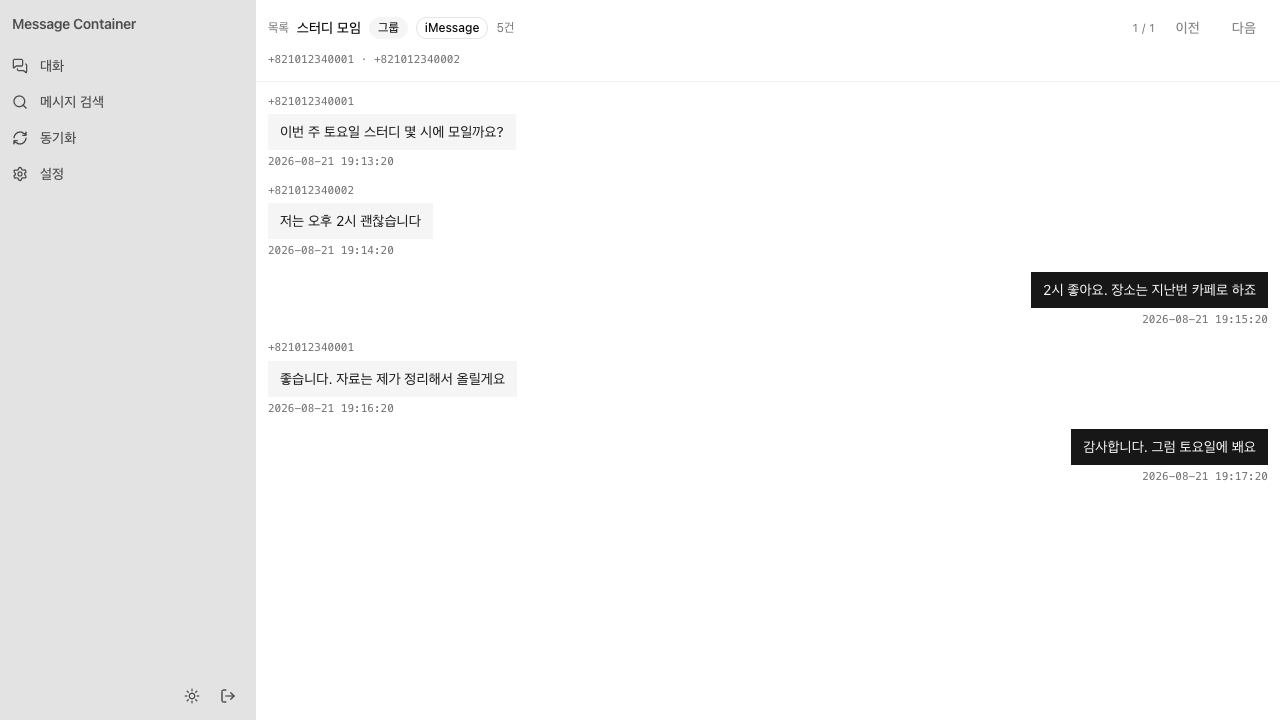
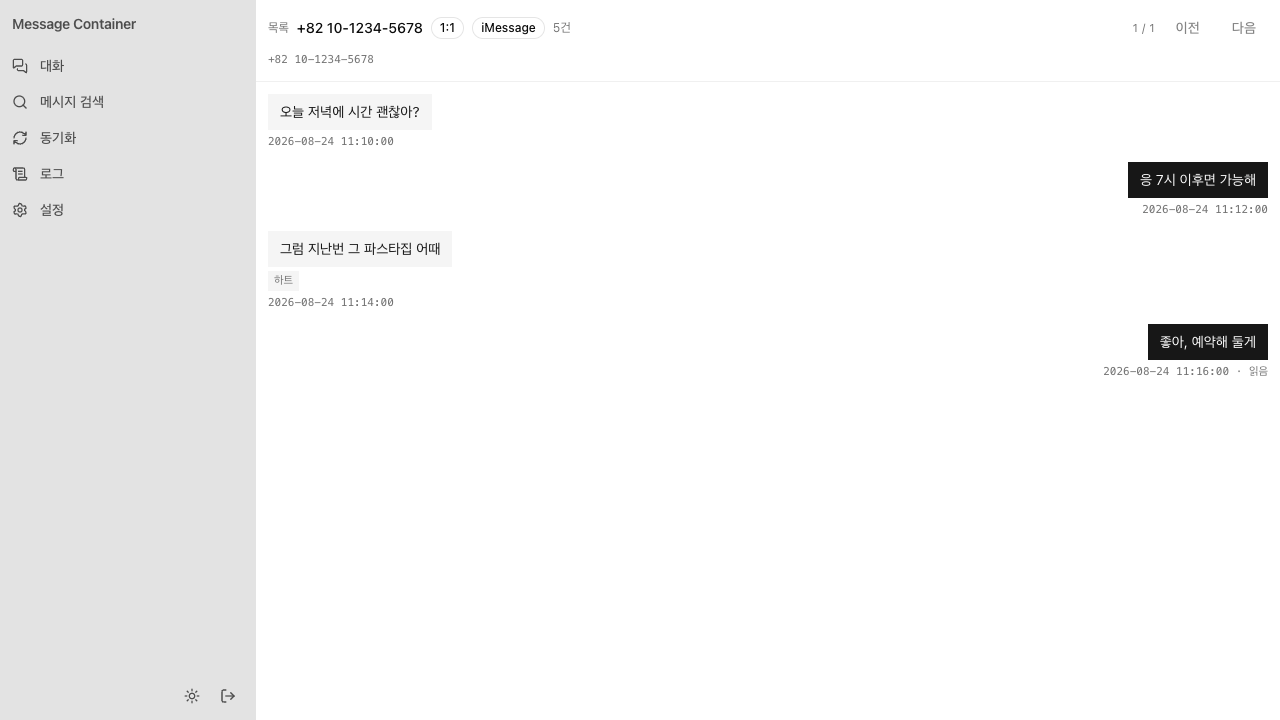
docs: 행 갱신 재스캔·로깅 시스템 반영 및 스크린샷 재촬영
- architecture §8.1(재스캔 설계)·§10(로깅 계층), api.md(MessageSummary 확장·GET /api/logs), testing.md(서버 152)
- acknowledge·history 에 행 갱신·로깅 합의/이력 기록, QA provider-verification 에 3 provider 실 DB 재검증 추가
- README 소개에 재스캔·tapback·로그 언급, 스크린샷을 데모 인스턴스(로그 메뉴·tapback 배지·읽음 마커 포함)로 교체
- HANDOFF·PROCESS 현행화 (쿠키명 msg_api_key 포함)

diff --git a/docs/testing.md b/docs/testing.md
@@ -8,7 +8,7 @@
 
 | 명령                     | 범위                                                                                |
 | ------------------------ | ----------------------------------------------------------------------------------- |
-| `bun test`               | 전체 — 루트에서는 워크스페이스별 실행(`bun run test`), 현재 server 139 · web 6 pass |
+| `bun test`               | 전체 — 루트에서는 워크스페이스별 실행(`bun run test`), 현재 server 152 · web 6 pass |
 | `bun test tests/lib`     | lib 단위 테스트만                                                                   |
 | `bun test tests/dto`     | dto 단위 테스트만                                                                   |
 | `bun test tests/service` | service 단위 테스트만                                                               |
@@ -51,7 +51,8 @@ Service 는 `*ServiceDb` 를 인라인 객체로 대체(mocking 라이브러리 
 | `chat-service.test.ts`            | `chatService` — `ChatServiceDb` 인라인 스텁                                                                                                                                                                                                |
 | `message-service.test.ts`         | `messageService` — 목록/검색 페이지네이션                                                                                                                                                                                                  |
 | `attachment-service.test.ts`      | `attachmentService` — 경로 traversal 방지(`ATTACHMENT_PATH_INVALID`) 포함                                                                                                                                                                  |
-| `sync-service.test.ts`            | `syncService.runOnce` — 커서 전진, 배치 반복, 에러 기록                                                                                                                                                                                    |
+| `sync-service.test.ts`            | `syncService.runOnce` — 커서 전진, 배치 반복, 에러 기록 + 최근 윈도 재스캔(커서 무전진·`Math.max(0, ...)` 경계·최초 동기화 전 스킵)과 읽음/tapback 정규화(type 0 → null)                                                                   |
+| `log-service.test.ts`             | `logService` — `record`(details JSON 직렬화·보존 상한 정리 호출·db 실패 삼킴), `list`(offset 변환·createdAt ISO 변환)                                                                                                                      |
 | `chat-db-reader.test.ts`          | `chatDbReader.readBatch` — fake chat.db(`tests/helpers/fake-chat-db.ts`)에 실제 SQLite 스키마를 만들어 나노초/초 단위 date 변환, `handle_id=0` → null, group style(43) 매핑, 커서·limit, DB 파일 없을 때 `SYNC_SOURCE_UNAVAILABLE` 을 검증 |
 | `compose/sqlite-provider.test.ts` | `createSqliteServiceDb` — 실제 마이그레이션(`drizzle/sqlite`)을 인메모리 DB 에 적용한 뒤 `saveBatch` 멱등성(upsert)·조회·검색·상태 갱신을 검증                                                                                             |
 
@@ -59,7 +60,7 @@ Service 는 `*ServiceDb` 를 인라인 객체로 대체(mocking 라이브러리 
 
 | 파일                      | 대상                                                                                                                                                                                                                                                                                                                                                      |
 | ------------------------- | --------------------------------------------------------------------------------------------------------------------------------------------------------------------------------------------------------------------------------------------------------------------------------------------------------------------------------------------------------- |
-| `api.e2e.test.ts`         | fake chat.db 를 파일로 시딩하고, `compose()` + `createRouter()` 로 조립한 실제 `Hono` 앱을 `app.request()` 로 호출한다. sync 실행 → 상태 조회 → 대화 목록/메시지/검색/첨부 조회 → 404·validation 에러까지 API 전체 배선을 검증한다                                                                                                                        |
+| `api.e2e.test.ts`         | fake chat.db 를 파일로 시딩하고, `compose()` + `createRouter()` 로 조립한 실제 `Hono` 앱을 `app.request()` 로 호출한다. sync 실행 → 상태 조회 → 대화 목록/메시지/검색/첨부 조회 → 404·validation 에러 + 기존 행 text 수정·읽음 처리의 재스캔 반영, tapback 행 동기화, `/api/logs`(인증 이벤트·level 필터)까지 API 전체 배선을 검증한다                    |
 | `server-boot.e2e.test.ts` | `Bun.spawn(['bun', 'index.ts'])` 로 실제 서버 프로세스를 별도 포트(3891)에 띄우고, `fetch` 로 패널 패스워드 설정 → 세션 쿠키로 API 키 발급 → 키 없이 401 → 키로 `/api/sync/status`·`/api/chats` → `/openapi.json` 까지 확인한다. `index.ts` 의 부트스트랩 순서(마이그레이션 → compose → 라우터 → sync 워커) 전체가 실제로 동작하는지 보는 유일한 테스트다 |
 | `panel.e2e.test.ts`       | `/panel` 전체 흐름 — 초기 패스워드 설정(짧은 패스워드 거부·재설정 차단), 로그인 실패/성공, 세션 쿠키로 키 발급(`data-new-key` 1회 표시), 발급 키로 API 호출, 폐기 후 401                                                                                                                                                                                  |
 | `mcp.e2e.test.ts`         | `/mcp` — 키 없이 401, `initialize`·`tools/list`(6종)·`tools/call`(검색·대화 메시지·첨부 이미지 base64·run_sync) 를 SSE 응답 파싱으로 검증                                                                                                                                                                                                                 |

diff --git a/docs/api.md b/docs/api.md
@@ -45,6 +45,7 @@ Authorization: Bearer msg_xxxxxxxxxxxxxxxxxxxxxxxxxxxxxxxx
 | GET    | `/api/attachments/:id/file` | API 키    | 첨부파일 원본 바이너리                                            |
 | GET    | `/api/sync/status`          | API 키    | 동기화 상태 (커서·시각·건수·에러)                                 |
 | POST   | `/api/sync/run`             | API 키    | 동기화 즉시 실행                                                  |
+| GET    | `/api/logs`                 | API 키    | 시스템 로그 조회 (최신순, `level` 필터)                           |
 | GET    | `/openapi.json`             | 공개      | OpenAPI 3 스펙 (프로덕션 포함 항상 제공)                          |
 | GET    | `/panel`                    | 세션 쿠키 | API 키 관리 화면 (초기 설정·로그인은 웹 대시보드에서도 가능)      |
 
@@ -120,8 +121,14 @@ type MessageSummary = {
     service: string | null
     sentAt: string // ISO 8601 (UTC)
     hasAttachments: boolean
+    isRead: boolean // 수신 메시지를 내가 읽었는지 (chat.db is_read)
+    readAt: string | null // ISO 8601 — 수신은 내가 읽은 시각, 발신은 상대 읽음 확인 시각
+    associatedMessageGuid: string | null // tapback 이면 대상 메시지 guid (p:0/... 등 prefix 포함)
+    associatedMessageType: number | null // tapback 유형 (2000~2005 추가, 3000~3005 제거), 일반 메시지는 null
 }
 ```
+
+tapback(리액션)은 chat.db 에서 별도 message 행으로 저장되므로 목록에 일반 행으로 포함된다 — `associatedMessageType` 이 2000 이상이면 tapback 행이며, 웹 대시보드는 이를 말풍선 대신 대상 메시지의 배지로 표시한다.
 
 ### GET /api/attachments/:id/file
 
@@ -144,9 +151,26 @@ type SyncStatus = {
 
 ### POST /api/sync/run
 
-바디 없음. 즉시 1회 동기화를 실행하고 완료까지 응답을 블로킹한다. 응답 `data`: `{ synced: number }`(이번 실행에서 새로 적재된 메시지 수).
+바디 없음. 즉시 1회 동기화를 실행하고 완료까지 응답을 블로킹한다. 응답 `data`: `{ synced: number }`(이번 실행에서 새로 적재된 메시지 수 — 최근 윈도 재스캔으로 갱신된 기존 행은 세지 않는다).
 
 에러: `503 SYNC_SOURCE_UNAVAILABLE`(live `chat.db` 를 읽을 수 없을 때 — VirtioFS 로 WAL 을 읽지 못하는 경우 등, [docs/architecture.md §8](./architecture.md) 참고).
+
+### GET /api/logs
+
+쿼리: `page`·`limit`(공통 페이지네이션) + `level`(`info` | `warn` | `error`, 선택 — `dto/log.ts` 의 `logListQuerySchema`). 최신순(id 내림차순)으로 반환한다.
+
+```typescript
+type LogEntry = {
+    id: number
+    level: string // info | warn | error
+    event: string // sync.batch | sync.error | sync.recovered | auth.setup | auth.login.success | auth.login.failure | auth.login.locked | auth.key.created | auth.key.revoked | api.unhandled
+    message: string
+    detailsJson: string | null // JSON 문자열 (예: {"synced":3})
+    createdAt: string // ISO 8601
+}
+```
+
+로그는 최근 1만 건까지 보존되며 초과분은 기록 시점에 자동 삭제된다. 웹 대시보드의 "로그" 메뉴가 이 API 를 사용한다.
 
 ## 5. 에러 코드
 

diff --git a/docs/history/2026-08-25-row-update-logging.md b/docs/history/2026-08-25-row-update-logging.md
@@ -1,0 +1,23 @@
+# 행 갱신 감지(재스캔) + 로깅 시스템 (2026-08-25)
+
+합의: [acknowledge/2026-08-25-row-update-logging.md](../acknowledge/2026-08-25-row-update-logging.md)
+
+## 한 일
+
+1. **스키마 확장 (마이그레이션 0002, 3 dialect)** — `messages` 에 `is_read`·`date_read_ms`·`associated_message_guid`·`associated_message_type`, 신규 `logs` 테이블(id·level·event·message·details_json·created_at_ms + created 인덱스)
+2. **행 갱신 감지** — `chat-db-reader` 가 `is_read`·`date_read`(ns/s 판별, 0 → null)·`associated_message_*` 를 함께 SELECT. `sync-service.runOnce()` 가 신규분 루프 후 `RESCAN_WINDOW_ROWS`(500) 윈도를 매 틱 재읽기해 upsert(커서 무전진). `associated_message_type` 0 → null 정규화. provider 3종의 messages upsert set·조회 selection 확장
+3. **조회 API** — `MessageSummary` 에 `isRead`·`readAt`(ISO)·`associatedMessageGuid`·`associatedMessageType` 추가 (MCP 는 동일 Service 재사용이라 자동 반영)
+4. **로깅 시스템** — `LogService`(record: details JSON 직렬화 + 보존 상한 1만건 정리 + 실패 삼킴 / list: 페이지네이션 + level 필터), `/api/logs` 라우트. 기록 지점: `SyncService.runOnce`(synced>0 → sync.batch), `index.ts` 워커(실패 천이 sync.error·복구 sync.recovered), `AuthService` 내부(setup·login 성공/실패/잠금·키 발급/폐기), `route/index.ts` 관측 미들웨어(500 → api.unhandled)
+5. **FE** — 사이드바 "로그" 메뉴 + `/logs` 페이지(SSR prefetch·level 필터·DataTable), 말풍선에 tapback 배지(추가-제거 상쇄 집계, guid prefix `p:0/`·`bp:` 파싱)와 마지막 발신 메시지 "읽음" 마커, `messageSummarySchema` 확장
+6. **운영 정리** — docker-compose.yml 의 MySQL 3306 호스트 포트 매핑 제거(단일 origin 완성), FE 쿠키명 `mc_api_key` → `msg_api_key`(사용자 교정 — 기존 로그인 브라우저는 재로그인 필요), README 스크린샷을 데모 인스턴스(신기능 포함)로 재촬영
+
+## 검증
+
+- `tsc --noEmit`·`prettier --check` 통과, 서버 152 pass(재스캔 5건·log-service 4건·e2e 3건 신규 포함) · 웹 6 pass, 웹 `next build` 성공
+- 실기동: sqlite(로컬 34110)·mysql(`mysql:8` 34306)·postgres(`postgres:18` 34432) 3 provider 에서 "기존 행 text 수정·읽음 처리 재동기화 + tapback 동기화 + /api/logs" 확인 — [quality-assurance/provider-verification.md](../quality-assurance/provider-verification.md)
+- 데모 인스턴스(34150/34151)에서 브라우저로 초기 설정 → 대화 상세의 tapback 배지·읽음 마커·로그 메뉴 렌더 확인 후 스크린샷 교체
+
+## 함정 기록
+
+- 브라우저 쿠키는 호스트 단위(포트 무시)라, localhost:32000 실 스택의 API 키 쿠키가 데모(34151)의 `/setup` 리다이렉트를 오염시킨다 — 데모 검증 시 `/api/session` DELETE 로 쿠키를 지우고 시작할 것
+- fake chat.db 시딩 시 `message.date` 는 Apple epoch(2001-01-01) 기준 ns 다 — Unix ms 를 그대로 ns 로 바꾸면 +31년으로 표시된다

diff --git a/docs/acknowledge/2026-08-25-row-update-logging.md b/docs/acknowledge/2026-08-25-row-update-logging.md
@@ -1,0 +1,20 @@
+# 행 갱신 감지 · 로깅 시스템 합의 (2026-08-25)
+
+## 결정
+
+| 항목              | 결정                                                                                                                                                                  |
+| ----------------- | --------------------------------------------------------------------------------------------------------------------------------------------------------------------- |
+| 행 갱신 감지 방식 | 매 sync 틱에서 신규분 커서 루프 완료 후, `afterRowId = max(0, cursor - 윈도행수)` 로 최근 윈도를 1회 재읽기해 upsert. 커서는 전진시키지 않는다(현재 커서 값 재기록)   |
+| 재스캔 윈도·주기  | 500행 / 매 틱. iMessage 편집은 15분 제한이라 최근 윈도로 충분, chat.db 읽기는 이미 매 틱 발생하므로 부하 미미                                                         |
+| upsert 충돌 처리  | 기존 `onConflictDoUpdate(sourceRowId)` 전 컬럼 갱신을 그대로 재사용 — 3 provider 공통, 추가 충돌 로직 없음                                                            |
+| 감지 범위         | C안(전부) — 메시지 편집(text·attributedBody) + 읽음 상태(`isRead`·`dateReadMs` 컬럼 추가) + tapback 구조화(`associatedMessageGuid`·`associatedMessageType` 컬럼 추가) |
+| 로깅 시스템       | DB 적재 + FE 로그 화면. 로그 테이블(3 dialect) + logService + `/api/logs` 조회 API + FE 사이드바 "로그" 메뉴(위젯). 보존 상한 초과분 자동 정리                        |
+| 로깅 대상         | sync 틱 에러·복구, 신규 동기화 결과(synced>0 일 때만 — 매 틱 성공 노이즈 배제), 인증 이벤트(로그인 성공/실패·키 발급/폐기), API unhandled 에러                        |
+| MySQL 3306 노출   | docker-compose.yml 의 db 서비스 호스트 포트 매핑 제거 — 단일 origin 원칙(웹 32000 만 노출) 완성. 실행 중 스택 재기동은 사용자가 원하는 시점에                         |
+| README 스크린샷   | 사이드바 메뉴(로그) 추가 후 데모 fake chat.db 인스턴스로 재촬영해 교체 (실데이터 미노출 원칙 유지)                                                                    |
+
+## 근거
+
+- 커서(ROWID) 증분은 신규 행만 잡는다 — 편집·읽음은 기존 행의 in-place UPDATE 라 재스캔 없이는 영구 누락
+- tapback 은 chat.db 에서 신규 행으로 들어와 커서 증분이 이미 적재하고 있으나, `associated_message_*` 컬럼이 없어 일반 메시지와 구분 불가 — 구조화 컬럼이 본질
+- 로깅은 "관리 기능은 FE 에서 완결" 원칙에 따라 DB 적재 + FE 화면 형태 채택 (stdout 단독안 기각)

diff --git a/docs/PROCESS.md b/docs/PROCESS.md
@@ -2,6 +2,23 @@
 
 기준 문서: `~/.claude/convention/*.md` (특히 backend.md · common.md · git.md), `docs/acknowledge/2026-08-25-project-stack.md`
 
+## 작업: 행 갱신 감지 + 로깅 시스템 (2026-08-25)
+
+기준: docs/acknowledge/2026-08-25-row-update-logging.md
+
+- [x] a. 스키마 확장 — messages 에 isRead·dateReadMs·associatedMessageGuid·associatedMessageType (3 dialect + 마이그레이션 0002 생성)
+- [x] b. chat-db-reader — SELECT 에 is_read·date_read(ns/s 판별, 0=미읽음→null)·associated_message_guid·associated_message_type 추가
+- [x] c. sync-service — SyncMessageRow·normalizeBatch 확장(type 0→null 정규화) + runOnce 재스캔 스텝(RESCAN_WINDOW_ROWS 500/매 틱, 커서 무전진)
+- [x] d. provider 3종 — saveBatch upsert set 확장, 메시지 조회 selection 에 새 필드 노출
+- [x] e-1. 조회 API — 메시지 응답에 isRead·readAt(ISO)·associatedMessageGuid·associatedMessageType 포함 (MCP 는 동일 Service 라 자동 반영)
+- [x] f. 재현 검증 — e2e "기존 행 text 수정·읽음 처리 재동기화"·"tapback 행 associated 정보 동기화" + 재스캔 단위 테스트 5건 (서버 152 pass)
+- [x] g. 로깅 BE — logs 테이블(3 dialect)·logService(기록·조회·보존 상한 1만건 정리)·/api/logs(level 필터)·배선(sync 에러 천이/복구/synced>0·auth 이벤트는 AuthService 내부·500 관측 미들웨어)
+- [x] e-2. FE 말풍선 tapback 배지(상쇄 집계·guid prefix 파싱) + 마지막 발신 메시지 "읽음" 마커
+- [x] h. 로깅 FE — 사이드바 "로그" 메뉴 + /logs 페이지(SSR prefetch·level 필터·DataTable·스켈레톤)
+- [x] i. compose — db(MySQL) 3306 호스트 포트 매핑 제거 + (사용자 교정) FE 쿠키명 mc_api_key → msg_api_key
+- [x] j. 검증 — typecheck·format·test(서버 152·웹 6)·web build + sqlite 로컬(34110)·mysql(34306)·postgres(34432) 실 DB 로 "기존 행 text 수정 재동기화·읽음·tapback·/api/logs" 실기동 확인
+- [x] k. README 스크린샷 재촬영(데모 34150/34151, 로그 메뉴·tapback·읽음 포함) + docs 갱신(architecture §8.1·§10, api.md, testing.md, README, QA, history) + 커밋
+
 ## 작업: 단일 origin 프록시 모델 전환 (2026-08-25)
 
 - [x] 웹(32000)을 유일한 노출면으로 — BE 포트 매핑 제거, /api/be 프록시에 Bearer 패스스루+공개 allowlist(auth/status), /mcp 스트리밍 프록시, /openapi.json 패스스루
